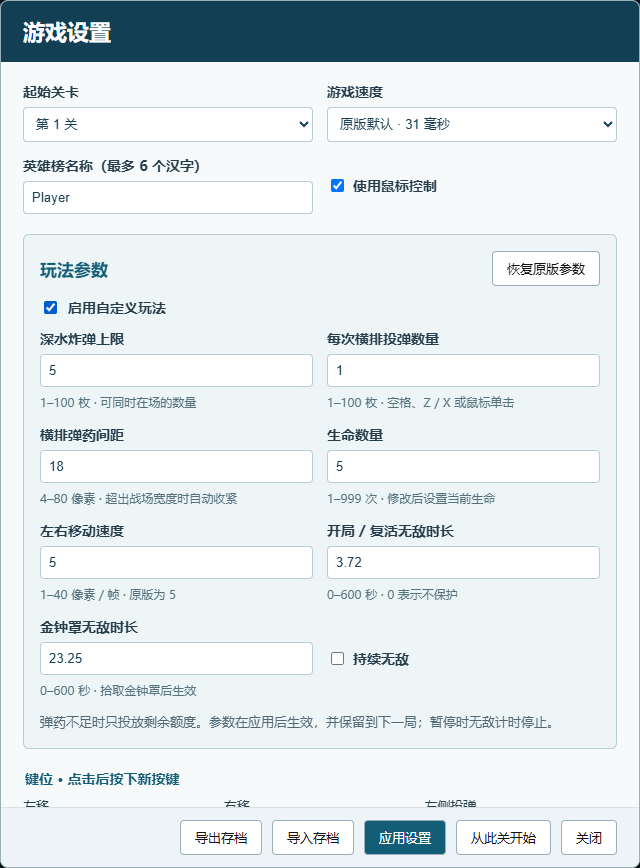
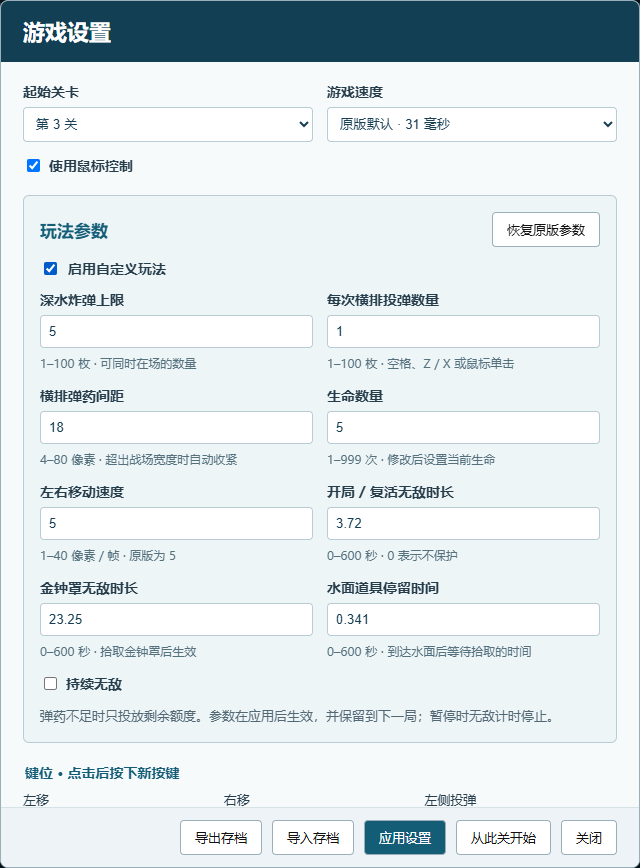
Collect leaderboard names only at game over

diff --git a/game.js b/game.js
@@ -32,14 +32,14 @@ function fillRules(rules){$('customRules').checked=rules.enabled;$('invincible')
 $('customRules').onchange=()=>$('tuningFields').disabled=!$('customRules').checked;
 $('resetRules').onclick=()=>fillRules(ShipTuning.defaults);
 function settingsError(text){$('optionsError').textContent=text;$('optionsError').hidden=false;}
-$('settings').onclick=()=>{if(!ready)return;const c=bridge.cpu,G=bridge.game;fillRules(bridge.tuning.config);$('optionsError').hidden=true;$('startLevel').value=selectedStartLevel;$('speed').value=c.read(G+0x308);$('useMouse').checked=!!c.read(G+0x30c);$('playerName').value=bridge.playerName||'Player';for(const f of document.querySelectorAll('[data-offset]')){f.dataset.key=c.read(G+(+f.dataset.offset));f.value=keyName(+f.dataset.key);}for(const f of document.querySelectorAll('[data-color]'))f.value=colorHex(c.read(G+(+f.dataset.color)));openDialog('options');};
+$('settings').onclick=()=>{if(!ready)return;const c=bridge.cpu,G=bridge.game;fillRules(bridge.tuning.config);$('optionsError').hidden=true;$('startLevel').value=selectedStartLevel;$('speed').value=c.read(G+0x308);$('useMouse').checked=!!c.read(G+0x30c);for(const f of document.querySelectorAll('[data-offset]')){f.dataset.key=c.read(G+(+f.dataset.offset));f.value=keyName(+f.dataset.key);}for(const f of document.querySelectorAll('[data-color]'))f.value=colorHex(c.read(G+(+f.dataset.color)));openDialog('options');};
 for(const f of document.querySelectorAll('[data-offset]'))f.onkeydown=e=>{if(e.key==='Tab')return;e.preventDefault();if(e.key==='Escape')return;const key=e.keyCode;if((key<16&&key!==13)||key>=112){message('请选择方向键、空格、Enter、字母或数字键');return;}f.dataset.key=key;f.value=keyName(key);};
-function applySettings(){const c=bridge.cpu,G=bridge.game,rules={enabled:$('customRules').checked,invincible:$('invincible').checked};$('optionsError').hidden=true;for(const f of document.querySelectorAll('[data-rule]')){if(rules.enabled&&!f.reportValidity())return false;rules[f.dataset.rule]=Number(f.value);}try{ShipTuning.rules(rules);}catch(e){settingsError(e.message);return false;}const keys=[...document.querySelectorAll('[data-offset]')].map(f=>+f.dataset.key);if(new Set(keys).size!==keys.length){settingsError('各操作的键位不能重复');return false;}selectedStartLevel=+$('startLevel').value;c.write(G+0x268,selectedStartLevel-1);bridge.tuning.rescaleProtection(c.read(G+0x308),+$('speed').value);c.write(G+0x308,+$('speed').value);bridge.tuning.apply(rules);c.write(G+0x30c,+$('useMouse').checked);bridge.playerName=$('playerName').value.trim().slice(0,12)||'Player';const config={startLevel:selectedStartLevel,speed:c.read(G+0x308),mouse:c.read(G+0x30c),name:bridge.playerName,gameplay:bridge.tuning.config,keys:{},colors:{}};for(const f of document.querySelectorAll('[data-offset]')){c.write(G+(+f.dataset.offset),+f.dataset.key);config.keys[f.dataset.offset]=+f.dataset.key;}for(const f of document.querySelectorAll('[data-color]')){const val=colorValue(f.value);c.write(G+(+f.dataset.color),val);config.colors[f.dataset.color]=val;}c.run(0x40c18a,G);c.run(0x40c51d,G);try{localStorage.setItem('ship233-settings',JSON.stringify(config));localStorage.setItem('ship233-player-name',bridge.playerName);}catch{}return true;}
+function applySettings(){const c=bridge.cpu,G=bridge.game,rules={enabled:$('customRules').checked,invincible:$('invincible').checked};$('optionsError').hidden=true;for(const f of document.querySelectorAll('[data-rule]')){if(rules.enabled&&!f.reportValidity())return false;rules[f.dataset.rule]=Number(f.value);}try{ShipTuning.rules(rules);}catch(e){settingsError(e.message);return false;}const keys=[...document.querySelectorAll('[data-offset]')].map(f=>+f.dataset.key);if(new Set(keys).size!==keys.length){settingsError('各操作的键位不能重复');return false;}selectedStartLevel=+$('startLevel').value;c.write(G+0x268,selectedStartLevel-1);bridge.tuning.rescaleProtection(c.read(G+0x308),+$('speed').value);c.write(G+0x308,+$('speed').value);bridge.tuning.apply(rules);c.write(G+0x30c,+$('useMouse').checked);const config={startLevel:selectedStartLevel,speed:c.read(G+0x308),mouse:c.read(G+0x30c),gameplay:bridge.tuning.config,keys:{},colors:{}};for(const f of document.querySelectorAll('[data-offset]')){c.write(G+(+f.dataset.offset),+f.dataset.key);config.keys[f.dataset.offset]=+f.dataset.key;}for(const f of document.querySelectorAll('[data-color]')){const val=colorValue(f.value);c.write(G+(+f.dataset.color),val);config.colors[f.dataset.color]=val;}c.run(0x40c18a,G);c.run(0x40c51d,G);try{localStorage.setItem('ship233-settings',JSON.stringify(config));}catch{}return true;}
 $('applySettings').onclick=()=>action(()=>{if(applySettings()){$('options').close();message('设置已应用');}});
 $('startSelected').onclick=()=>action(()=>{if(!applySettings())return;bridge.startLevel(+$('startLevel').value);if(bridge.state().paused)bridge.keyDown(114);stopped=false;last=0;accumulator=0;modalPause.set($('options'),false);$('options').close();});
 function showScores(){const c=bridge.cpu,rows=$('scoreRows');rows.replaceChildren();const base=c.read(bridge.game+0x3a4);for(let i=0;i<10;i++){const a=base+i*44,tr=document.createElement('tr');for(const value of [i+1,bridge.str(a+4),c.read(a+24),c.read(a+20),c.read(a+28),bridge.str(a+32)]){const td=document.createElement('td');td.textContent=value;tr.append(td);}rows.append(tr);}openDialog('heroes');}
 $('scores').onclick=()=>action(showScores);
-function showNameEntry(){if($('scoreEntry').open)return;releaseKeys();$('entryScore').textContent=bridge.state().score;$('entryName').value=bridge.playerName&&bridge.playerName!=='Player'?bridge.playerName:'';$('entryError').hidden=true;$('scoreEntry').showModal();$('entryName').focus();$('entryName').select();}
+function showNameEntry(){if($('scoreEntry').open)return;releaseKeys();$('entryScore').textContent=bridge.state().score;$('entryName').value='';$('entryError').hidden=true;$('scoreEntry').showModal();$('entryName').focus();$('entryName').select();}
 function finishNameEntry(name){try{bridge.completeName(name);for(const key of deferredUps)up(key);deferredUps.clear();releaseKeys();last=0;accumulator=0;$('scoreEntry').close();refresh();if(bridge.showScores){bridge.showScores=false;showScores();}}catch(e){fail(e);}}
 $('entryForm').onsubmit=e=>{e.preventDefault();const name=$('entryName').value.trim();let error='';if(!name)error='请输入你的名字。';else if(bridge.decoder.decode(bridge.nameBytes(name))!==name)error='名字过长或含不支持的字符，请使用汉字、字母或数字。';if(error){$('entryError').textContent=error;$('entryError').hidden=false;$('entryName').focus();return;}try{localStorage.setItem('ship233-player-name',name);}catch{}finishNameEntry(name);};
 $('cancelEntry').onclick=()=>finishNameEntry(null);
@@ -54,7 +54,7 @@ for(const b of document.querySelectorAll('[data-key]')){let repeat,key;const off
 function pointer(e,click=false,right=false){if(!ready||document.querySelector('dialog[open]'))return;const r=canvas.getBoundingClientRect();action(()=>bridge.mouse((e.clientX-r.left)*600/r.width,(e.clientY-r.top)*450/r.height,click,right));if(click)enableAudio();}
 canvas.addEventListener('pointermove',e=>{if(e.pointerType==='mouse')pointer(e);});canvas.addEventListener('pointerdown',e=>{e.preventDefault();canvas.focus();pointer(e,true,e.button===2);});canvas.addEventListener('contextmenu',e=>e.preventDefault());
 function loop(t){if(ready&&bridge.pendingName){showNameEntry();last=t;accumulator=0;requestAnimationFrame(loop);return;}if(ready&&!stopped){accumulator+=last?Math.min(t-last,120):0;try{let updated=false,steps=0;while(accumulator>=bridge.state().step&&steps++<24){const step=bridge.state().step;bridge.frame();accumulator-=step;updated=true;if(bridge.cpu.suspended)break;}if(steps>=24)accumulator=0;if(updated)present();refresh();if(bridge.pendingName)showNameEntry();else if(bridge.showScores){bridge.showScores=false;showScores();}}catch(e){fail(e);}}last=t;requestAnimationFrame(loop);}
-(async()=>{try{const images={};await Promise.all(SHIP_RESOURCES.images.map(id=>new Promise((res,rej)=>{const im=new Image();im.onload=()=>{images[id]=im;res();};im.onerror=()=>rej(Error('无法载入图片 '+id));im.src=SHIP_RESOURCES.data[id];})));bridge=new ShipBridge(new ShipCPU(SHIP_MACHINE),board,images);window.ship=bridge;bridge.initialize();try{const cfg=JSON.parse(localStorage.getItem('ship233-settings')||'null');if(cfg){bridge.playerName=cfg.name;if(Number.isFinite(cfg.speed)&&cfg.speed>0)bridge.cpu.write(bridge.game+0x308,cfg.speed);if(cfg.mouse!==undefined)bridge.cpu.write(bridge.game+0x30c,cfg.mouse);for(const [offset,v] of Object.entries({...cfg.keys,...cfg.colors}))bridge.cpu.write(bridge.game+(+offset),v);bridge.cpu.run(0x40c18a,bridge.game);bridge.cpu.run(0x40c51d,bridge.game);if(cfg.gameplay)bridge.tuning.apply(cfg.gameplay);if(Number.isInteger(cfg.startLevel)&&cfg.startLevel>=1&&cfg.startLevel<=21){selectedStartLevel=cfg.startLevel;if(selectedStartLevel>1)bridge.startLevel(selectedStartLevel);}}bridge.playerName=localStorage.getItem('ship233-player-name')||bridge.playerName;}catch{}ready=true;window.gameReady=true;fitCanvas();refresh();requestAnimationFrame(loop);}catch(e){fail(e);}})();
+(async()=>{try{const images={};await Promise.all(SHIP_RESOURCES.images.map(id=>new Promise((res,rej)=>{const im=new Image();im.onload=()=>{images[id]=im;res();};im.onerror=()=>rej(Error('无法载入图片 '+id));im.src=SHIP_RESOURCES.data[id];})));bridge=new ShipBridge(new ShipCPU(SHIP_MACHINE),board,images);window.ship=bridge;bridge.initialize();try{const cfg=JSON.parse(localStorage.getItem('ship233-settings')||'null');if(cfg){if(Number.isFinite(cfg.speed)&&cfg.speed>0)bridge.cpu.write(bridge.game+0x308,cfg.speed);if(cfg.mouse!==undefined)bridge.cpu.write(bridge.game+0x30c,cfg.mouse);for(const [offset,v] of Object.entries({...cfg.keys,...cfg.colors}))bridge.cpu.write(bridge.game+(+offset),v);bridge.cpu.run(0x40c18a,bridge.game);bridge.cpu.run(0x40c51d,bridge.game);if(cfg.gameplay)bridge.tuning.apply(cfg.gameplay);if(Number.isInteger(cfg.startLevel)&&cfg.startLevel>=1&&cfg.startLevel<=21){selectedStartLevel=cfg.startLevel;if(selectedStartLevel>1)bridge.startLevel(selectedStartLevel);}}}catch{}ready=true;window.gameReady=true;fitCanvas();refresh();requestAnimationFrame(loop);}catch(e){fail(e);}})();
 
 document.getElementById('restartNew').onclick=()=>{document.getElementById('restartPrompt').close();down(113,true);canvas.focus();};
 document.getElementById('restartContinue').onclick=()=>{document.getElementById('restartPrompt').close();if(bridge.state().paused)down(114);canvas.focus();};

diff --git a/index.html b/index.html
@@ -138,7 +138,7 @@ main:fullscreen{background:#10232d;padding:8px}
 </dialog>
 <dialog id="options" class="panel" aria-labelledby="optionsTitle">
 <h2 id="optionsTitle">游戏设置</h2><div class="content">
-<div class="form-grid"><label>起始关卡<select id="startLevel"></select></label><label>游戏速度<select id="speed"><option value="31">原版默认 · 31 毫秒</option></select></label><label>英雄榜名称（最多 6 个汉字）<input id="playerName" maxlength="12" value="Player" autocomplete="nickname"></label><label class="check"><input id="useMouse" type="checkbox" checked>使用鼠标控制</label></div>
+<div class="form-grid"><label>起始关卡<select id="startLevel"></select></label><label>游戏速度<select id="speed"><option value="31">原版默认 · 31 毫秒</option></select></label><label class="check"><input id="useMouse" type="checkbox" checked>使用鼠标控制</label></div>
 <section class="tuning-group" aria-labelledby="tuningTitle">
 <div class="tuning-heading"><h3 id="tuningTitle">玩法参数</h3><button id="resetRules" type="button">恢复原版参数</button></div>
 <label class="tuning-toggle"><input id="customRules" type="checkbox">启用自定义玩法</label>

diff --git a/tools/test_name_entry.py b/tools/test_name_entry.py
@@ -32,7 +32,7 @@ with sync_playwright() as p:
  page.locator('[data-close="heroes"]').click();page.reload();page.wait_for_function('window.gameReady')
  assert records()[0]=={'name':'测试舰长','score':50000}
  before=records();qualify(60000)
- assert page.locator('#entryName').input_value()=='测试舰长'
+ assert page.locator('#entryName').input_value()==''
  page.locator('#cancelEntry').click();page.wait_for_function('!ship.cpu.suspended')
  assert records()==before and page.evaluate('ship.cpu.r[4]===0xf00000')
  page.locator('#start').click();qualify(70000);page.keyboard.press('Escape');page.wait_for_function('!ship.cpu.suspended')
